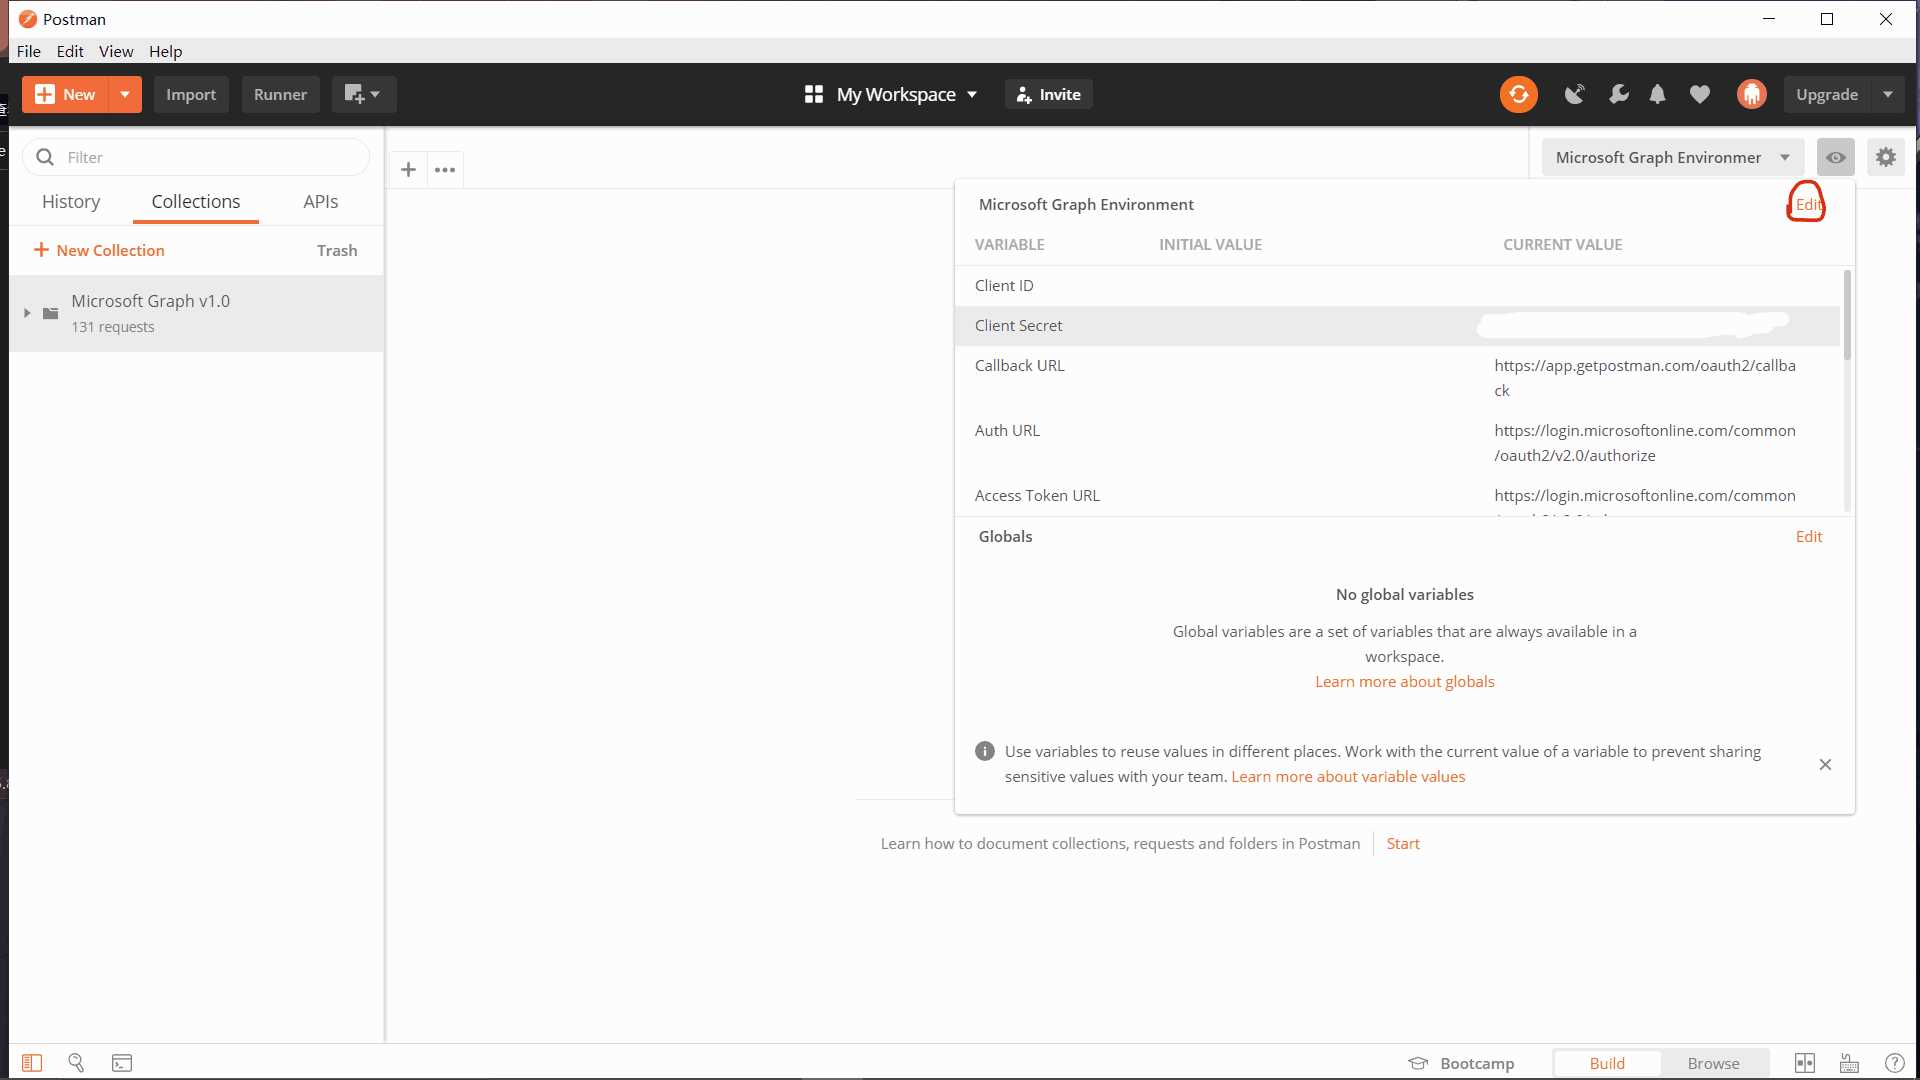
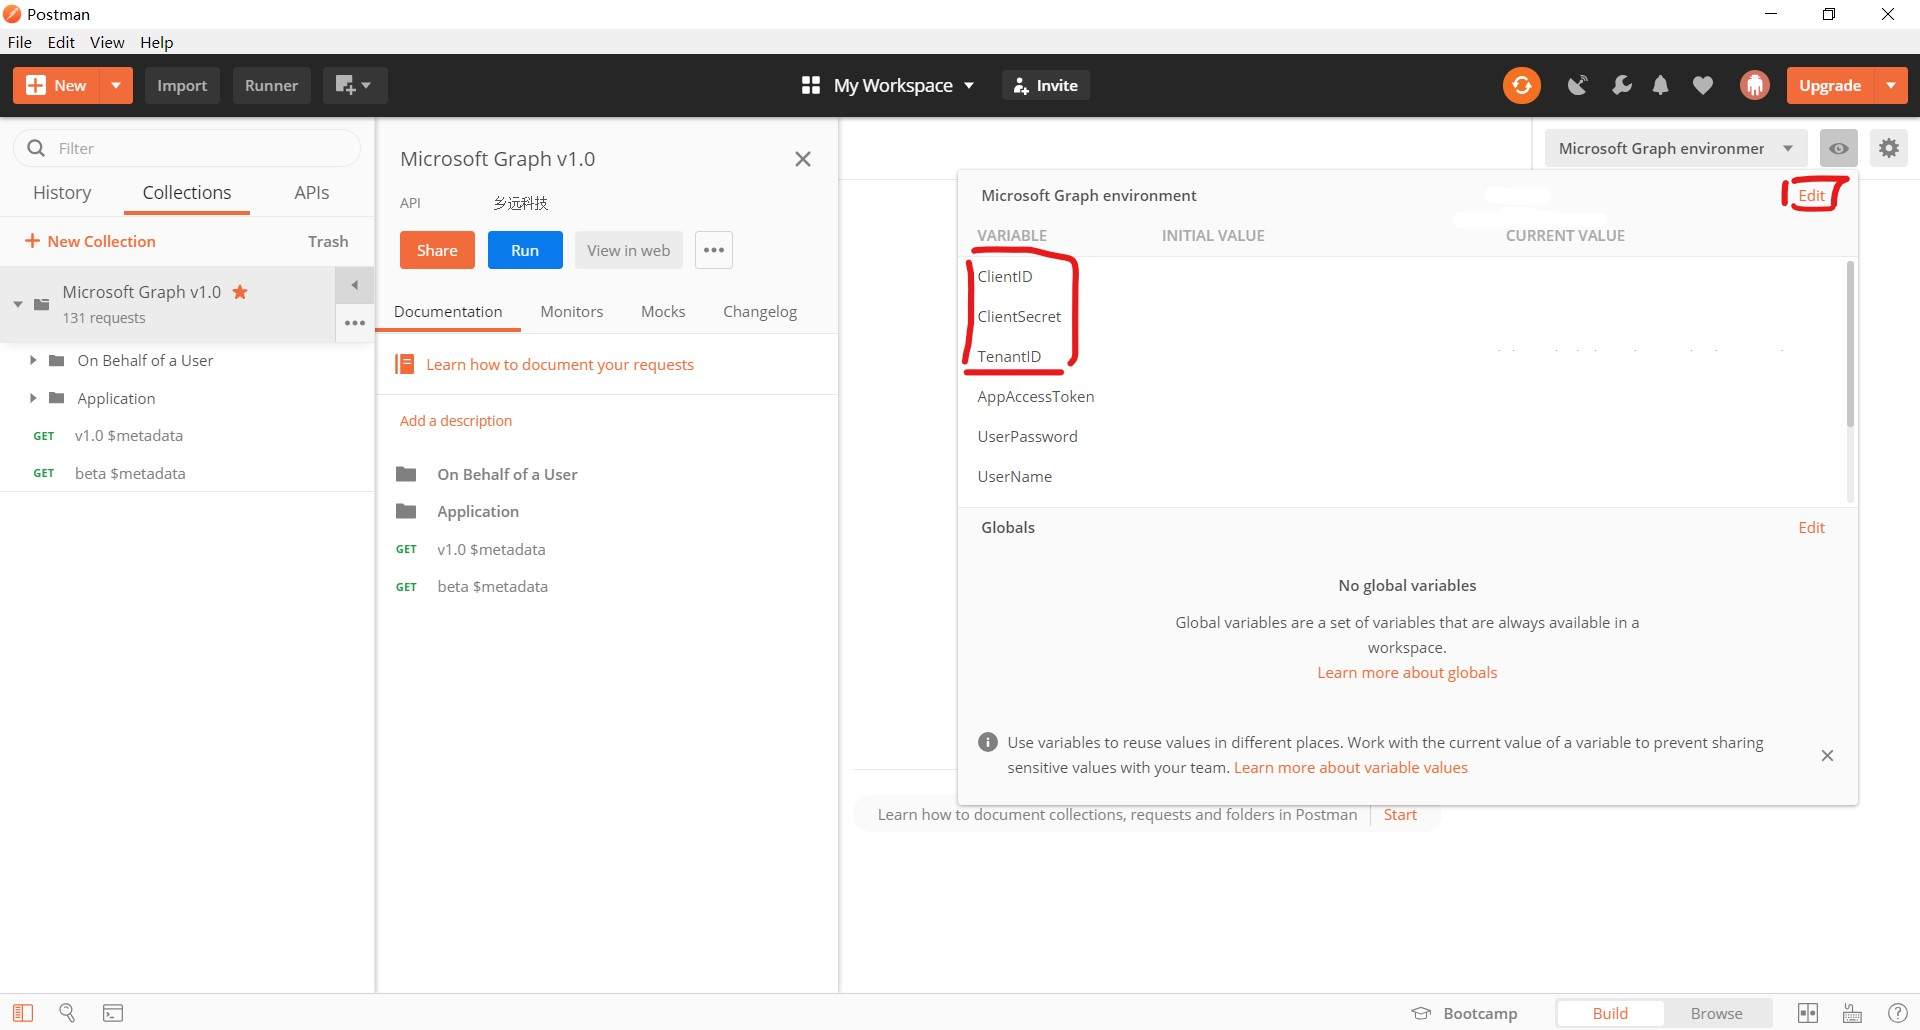
Site updated: 2020-05-14 15:10:09

diff --git a/2020/04/23/关于使用postman调用api/index.html b/2020/04/23/关于使用postman调用api/index.html
@@ -84,14 +84,11 @@ http,">
 <p>选择刚加入的Microsoft Graph environment。之后点击右侧眼睛图形，然后点击Edit</p>
 <p><img src="/2020/04/23/%E5%85%B3%E4%BA%8E%E4%BD%BF%E7%94%A8postman%E8%B0%83%E7%94%A8api/174201.jpg" alt></p>
 <p>输入信息</p>
-<pre><code>Callback URL: https://app.getpostman.com/oauth2/callback
-Auth URL: https://login.microsoftonline.com/#tenant_id#/oauth2/v2.0/authorize
-Access Token URL: https://login.microsoftonline.com/#tenant_id#/oauth2/v2.0/token
-Client ID: ?
-Client Secret: ?
-Scope: https://graph.microsoft.com/.default</code></pre><p>“?”自行补充</p>
+<pre><code>Client ID: ?
+Tenant ID: ?
+Client Secret: ?</code></pre><p>“?”自行补充</p>
 <p>接着导入(Import–Import From Link)</p>
-<p><code>https://raw.githubusercontent.com/microsoftgraph/microsoftgraph-postman-collections/master/Microsoft%20Graph.postman_collection.json</code><br><code>https://raw.githubusercontent.com/microsoftgraph/microsoftgraph-postman-collections/master/Microsoft%20Graph.postman_environment.json</code></p>
+<p><code>https://raw.githubusercontent.com/microsoftgraph/microsoftgraph-postman-collections/master/Microsoft%20Graph.postman_collection.json</code></p>
 <p><img src="/2020/04/23/%E5%85%B3%E4%BA%8E%E4%BD%BF%E7%94%A8postman%E8%B0%83%E7%94%A8api/171518.jpg" alt></p>
 <p>会出现一个Microsoft Graph的集合</p>
 <p><img src="/2020/04/23/%E5%85%B3%E4%BA%8E%E4%BD%BF%E7%94%A8postman%E8%B0%83%E7%94%A8api/171724.jpg" alt></p>

diff --git a/index.html b/index.html
@@ -121,7 +121,7 @@
         
 <div class="post">
     <a href="/2020/04/23/GitHub%E4%B8%8E%E7%A7%81%E4%BA%BA%E5%8D%9A%E5%AE%A2%E6%90%AD%E5%BB%BA/" title="GitHub与私人博客搭建">
-        <img src="/img/4.jpg" class="cover" width="680" height="440">
+        <img src="/img/wallhaven-0w267q.jpg" class="cover" width="680" height="440">
     </a>
     <div class="else">
         <p>四月 23, 2020</p>
@@ -134,7 +134,7 @@
 
 <div class="post">
     <a href="/2020/04/23/%E5%85%B3%E4%BA%8E%E4%BD%BF%E7%94%A8postman%E8%B0%83%E7%94%A8api/" title="关于使用postman调用api">
-        <img src="/img/wallhaven-0w267q.jpg" class="cover" width="680" height="440">
+        <img src="/img/5.jpg" class="cover" width="680" height="440">
     </a>
     <div class="else">
         <p>四月 23, 2020</p>

diff --git a/categories/技术探讨/index.html b/categories/技术探讨/index.html
@@ -134,7 +134,7 @@
 
 <div class="post">
     <a href="/2020/04/23/%E5%85%B3%E4%BA%8E%E4%BD%BF%E7%94%A8postman%E8%B0%83%E7%94%A8api/" title="关于使用postman调用api">
-        <img src="/img/1.jpg" class="cover" width="680" height="440">
+        <img src="/img/3.jpg" class="cover" width="680" height="440">
     </a>
     <div class="else">
         <p>四月 23, 2020</p>

diff --git a/tags/office/index.html b/tags/office/index.html
@@ -120,7 +120,7 @@
         
 <div class="post">
     <a href="/2020/04/18/office365E5%E8%AE%A2%E9%98%85/" title="office365 E5订阅">
-        <img src="/img/4.jpg" class="cover" width="680" height="440">
+        <img src="/img/5.jpg" class="cover" width="680" height="440">
     </a>
     <div class="else">
         <p>四月 18, 2020</p>
